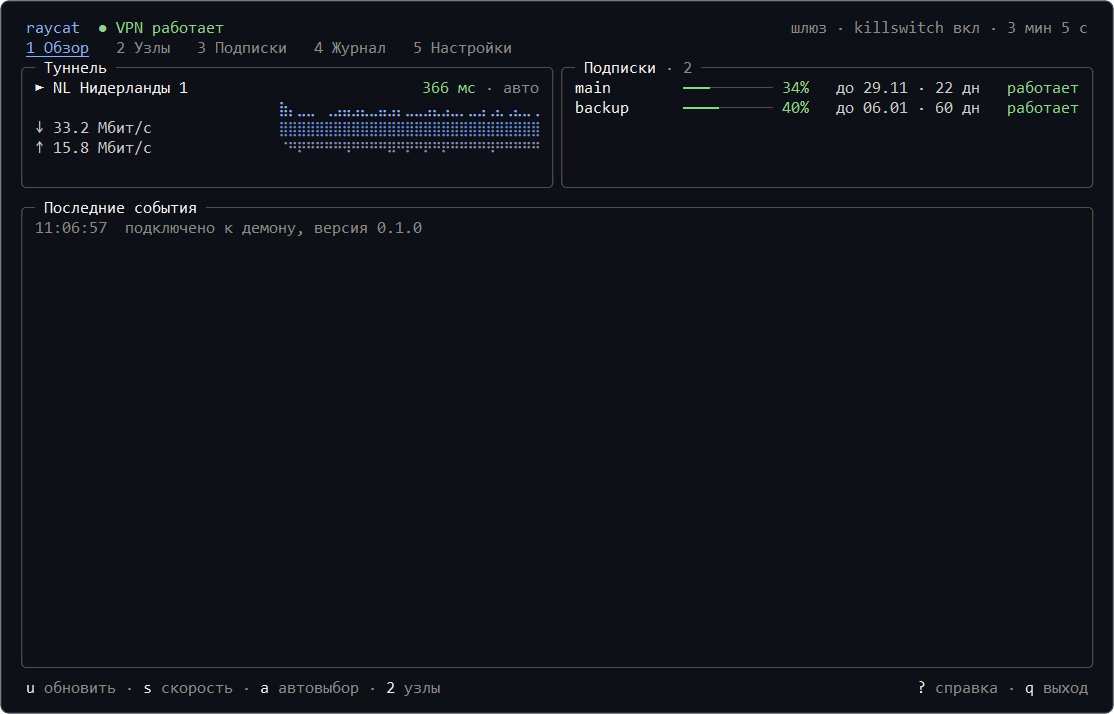
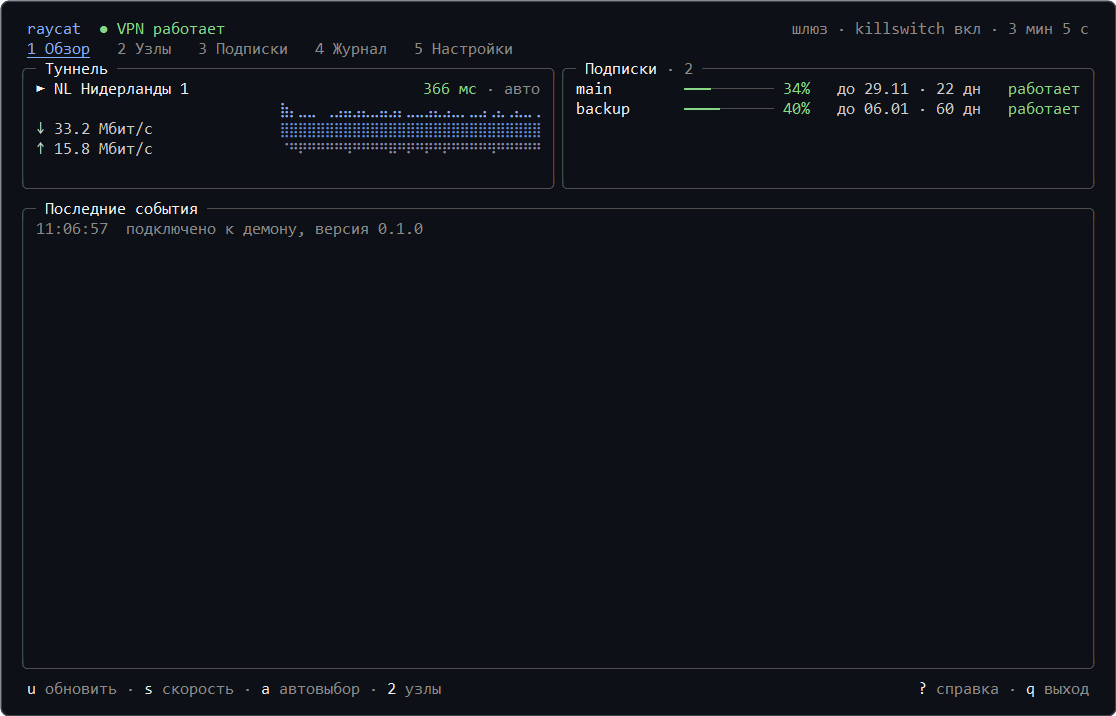
docs: симметричный раздел «Управление» и рамка скриншотов как у GitHub
Скриншоты узлов и настроек рядом. Клавиши и команды в одной таблице «действие — клавиша — команда». Рамка скриншотов рассчитана на ширину показа: после уменьшения она 1 px цвета #3d444d, как у блоков GitHub.

diff --git a/.github/README.md b/.github/README.md
@@ -117,43 +117,26 @@ sudo raycat tui
 
 `raycat tui` выводит состояние, узлы, подписки, журнал и настройки на одном экране и поддерживает мышь. Основные настройки изменяются прямо в интерфейсе.
 
-<div align="center">
-  <img src="assets/tui-nodes.png" alt="raycat tui: узлы" width="820">
-</div>
+<p align="center">
+  <img src="assets/tui-nodes.png" alt="raycat tui: узлы" width="49%">
+  <img src="assets/tui-settings.png" alt="raycat tui: настройки" width="49%">
+</p>
 
-<details>
-<summary><b>Вкладка «Настройки»</b></summary>
+Основные действия доступны и в интерфейсе, и из командной строки:
 
-<br>
-
-<img src="assets/tui-settings.png" alt="raycat tui: настройки" width="820">
-
-</details>
-
-<br>
-
-| Клавиша | Вкладка | Действия |
+| Действие | В `raycat tui` | Команда |
 | --- | --- | --- |
-| <kbd>1</kbd> | Обзор | состояние туннеля, обновление подписок, проверка скорости |
-| <kbd>2</kbd> | Узлы | закрепление <kbd>p</kbd>, исключение <kbd>x</kbd>, скрытие недоступных <kbd>d</kbd>, проверка скорости <kbd>t</kbd> |
-| <kbd>3</kbd> | Подписки | маски <kbd>m</kbd> и порядок <kbd>[</kbd> <kbd>]</kbd> |
-| <kbd>4</kbd> | Журнал | события, только предупреждения <kbd>w</kbd> |
-| <kbd>5</kbd> | Настройки | изменение основных параметров |
+| Состояние туннеля и подписок | вкладка <kbd>1</kbd> | `raycat status` |
+| Список узлов | вкладка <kbd>2</kbd> | `raycat nodes` |
+| Закрепить узел | <kbd>p</kbd> | `raycat use <узел>` |
+| Вернуть автоматический выбор | <kbd>a</kbd> | `raycat use auto` |
+| Обновить подписки | <kbd>u</kbd> | `raycat update` |
+| Проверить скорость | <kbd>s</kbd>, для выбранного узла <kbd>t</kbd> | `raycat speedtest` |
+| Исключить узел из автовыбора | <kbd>x</kbd> | маска `deny` в файле настроек |
+| Изменить настройки | вкладка <kbd>5</kbd> | файл настроек и `raycat reload` |
+| Проверить файл настроек | — | `raycat check` |
 
-Те же действия доступны из командной строки:
-
-| Команда | Назначение |
-| --- | --- |
-| `raycat status` | состояние туннеля, текущий узел, подписки |
-| `raycat nodes` | список узлов |
-| `raycat use <узел>`, `raycat use auto` | закрепление узла, возврат к автоматическому выбору |
-| `raycat update` | внеочередное обновление подписок |
-| `raycat speedtest` | проверка скорости через VPN |
-| `raycat check` | проверка файла настроек |
-| `raycat config` | итоговые настройки, секреты скрыты |
-| `raycat reload` | применение изменений файла настроек |
-
-Полный список команд: `raycat --help`.
+Остальные клавиши показывает <kbd>?</kbd> в интерфейсе, остальные команды — `raycat --help`.
 
 <p align="right"><a href="#raycat">наверх</a></p>
 

diff --git a/.github/README.en.md b/.github/README.en.md
@@ -117,43 +117,26 @@ Builds are available for x86_64, arm64 and armv7, including Raspberry Pi.
 
 `raycat tui` shows the status, nodes, subscriptions, log and settings on one screen and supports a mouse. The main settings can be changed directly in the interface.
 
-<div align="center">
-  <img src="assets/tui-nodes.png" alt="raycat tui: nodes" width="820">
-</div>
+<p align="center">
+  <img src="assets/tui-nodes.png" alt="raycat tui: nodes" width="49%">
+  <img src="assets/tui-settings.png" alt="raycat tui: settings" width="49%">
+</p>
 
-<details>
-<summary><b>The Settings tab</b></summary>
+The main actions are available both in the interface and from the command line:
 
-<br>
-
-<img src="assets/tui-settings.png" alt="raycat tui: settings" width="820">
-
-</details>
-
-<br>
-
-| Key | Tab | Actions |
+| Action | In `raycat tui` | Command |
 | --- | --- | --- |
-| <kbd>1</kbd> | Overview | tunnel status, updating subscriptions, speed test |
-| <kbd>2</kbd> | Nodes | pin <kbd>p</kbd>, exclude <kbd>x</kbd>, hide unavailable <kbd>d</kbd>, speed test <kbd>t</kbd> |
-| <kbd>3</kbd> | Subscriptions | masks <kbd>m</kbd> and order <kbd>[</kbd> <kbd>]</kbd> |
-| <kbd>4</kbd> | Log | events, warnings only <kbd>w</kbd> |
-| <kbd>5</kbd> | Settings | changing the main parameters |
+| Tunnel and subscription status | tab <kbd>1</kbd> | `raycat status` |
+| List of nodes | tab <kbd>2</kbd> | `raycat nodes` |
+| Pin a node | <kbd>p</kbd> | `raycat use <node>` |
+| Return to automatic selection | <kbd>a</kbd> | `raycat use auto` |
+| Update subscriptions | <kbd>u</kbd> | `raycat update` |
+| Speed test | <kbd>s</kbd>, for the selected node <kbd>t</kbd> | `raycat speedtest` |
+| Exclude a node from automatic selection | <kbd>x</kbd> | a `deny` mask in the settings file |
+| Change settings | tab <kbd>5</kbd> | the settings file and `raycat reload` |
+| Check the settings file | — | `raycat check` |
 
-The same actions are available from the command line:
-
-| Command | Purpose |
-| --- | --- |
-| `raycat status` | tunnel status, current node, subscriptions |
-| `raycat nodes` | list of nodes |
-| `raycat use <node>`, `raycat use auto` | pin a node, return to automatic selection |
-| `raycat update` | update subscriptions now |
-| `raycat speedtest` | speed test through the VPN |
-| `raycat check` | check the settings file |
-| `raycat config` | effective settings, with secrets hidden |
-| `raycat reload` | apply changes to the settings file |
-
-Full list of commands: `raycat --help`.
+Press <kbd>?</kbd> in the interface for the other keys, and run `raycat --help` for the other commands.
 
 <p align="right"><a href="#raycat">back to top</a></p>
 
